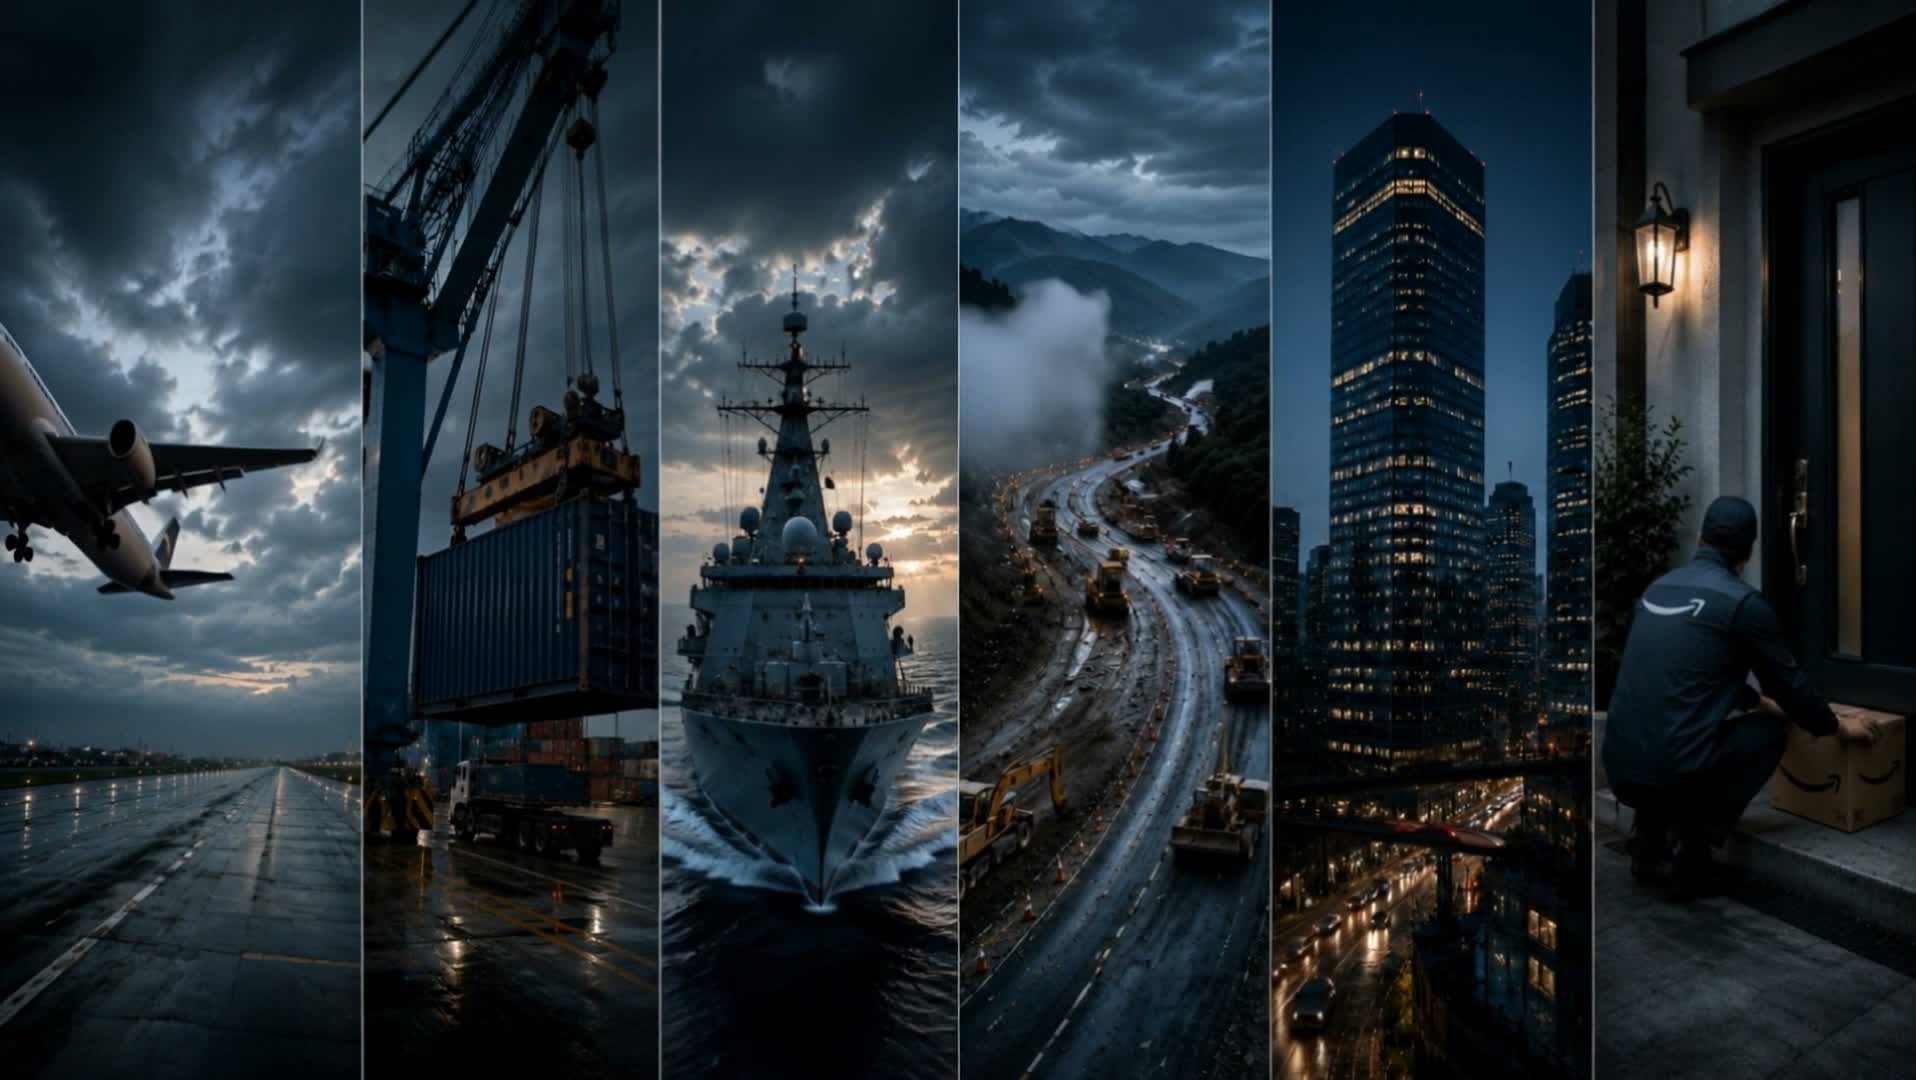
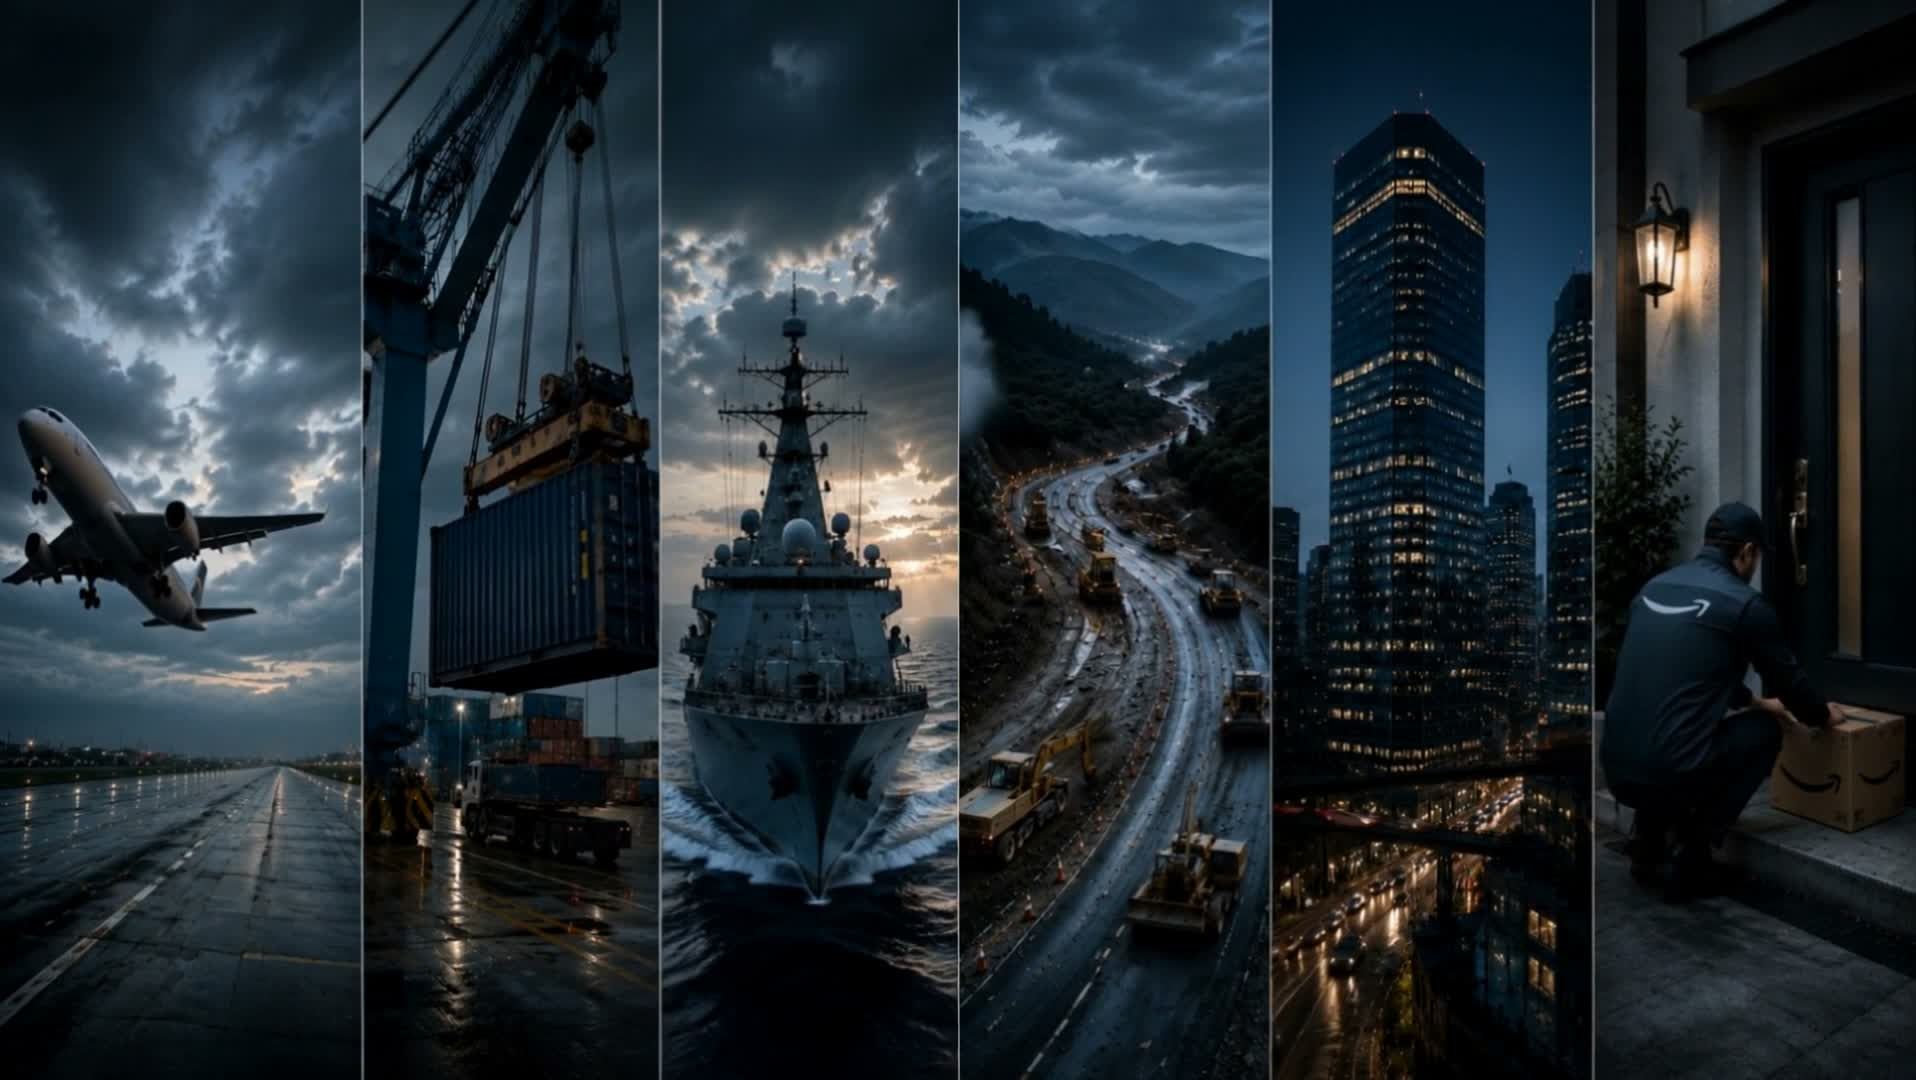
feat: swap slides 50 and 51

diff --git a/output/geoland-presentation/src/index.css b/output/geoland-presentation/src/index.css
@@ -159,7 +159,7 @@
     display: block !important;
   }
 
-  /* Clase para cada slide impreso y sus secciones */
+  /* Clase para cada slide impreso */
   .print-slide {
     page-break-after: always !important;
     break-after: page !important;
@@ -172,37 +172,9 @@
     background-color: #000000 !important;
   }
 
-  .print-slide section,
-  .print-slide .section-fullscreen {
-    height: 1080px !important;
-    min-height: 1080px !important;
-    display: flex !important;
-    align-items: center !important;
-    justify-content: center !important;
-  }
-  /* Desactivar animaciones y transiciones de transición */
+  /* Desactivar animaciones y filtros CSS durante la impresión */
   * {
     animation: none !important;
     transition: none !important;
   }
-}
-
-/* Forzar visibilidad instantánea de elementos animados (Framer Motion) en toda la app */
-h1, h2, h3, h4, h5, h6, p, span, img, svg, circle, rect, text {
-  opacity: 1 !important;
-  transform: none !important;
-  scale: 1 !important;
-}
-
-/* Mostrar todos los divs contenedores excepto overlays oscuros de contraste */
-div:not(.bg-overlay-dark):not(.media-overlay):not(.bg-overlay-dark\/45):not(.bg-black\/60):not(.bg-black\/45):not(.bg-black\/40) {
-  opacity: 1 !important;
-  transform: none !important;
-}
-
-/* Dibujar al instante los trazos de los diagramas SVG */
-svg path {
-  stroke-dasharray: none !important;
-  stroke-dashoffset: 0 !important;
-  opacity: 1 !important;
 }

diff --git a/output/geoland-presentation/src/components/Chapter.tsx b/output/geoland-presentation/src/components/Chapter.tsx
@@ -158,14 +158,21 @@ const Chapter: React.FC<ChapterProps> = ({ id, title, overline, text, background
       >
         {backgroundMedia && (
           isVideo ? (
-            <img 
-              src={`assets/${backgroundMedia.replace(/\.mp4$/i, '.jpg')}`} 
-              className="w-full h-full object-cover"
-              alt="background-poster"
-              onError={(e) => {
-                e.currentTarget.style.display = 'none';
-              }}
-            />
+            <>
+              <video 
+                src={backgroundMedia.startsWith('backtesting') || backgroundMedia.startsWith('escala') ? `assets/${backgroundMedia}` : `assets/${backgroundMedia}`}
+                autoPlay 
+                muted
+                loop 
+                playsInline 
+                className="w-full h-full object-cover print:hidden"
+              />
+              <img 
+                src={`assets/${backgroundMedia.replace(/\.mp4$/i, '.jpg')}`} 
+                className="w-full h-full object-cover hidden print:block"
+                alt="background-poster"
+              />
+            </>
           ) : (
             <img 
               src={`assets/${backgroundMedia}`} 

diff --git a/output/geoland-presentation/src/App.tsx b/output/geoland-presentation/src/App.tsx
@@ -130,7 +130,7 @@ function App() {
   }
 
   return (
-    <MotionConfig transition={{ duration: 0 }} reducedMotion="always">
+    <>
       {isPortrait && isMobile && (
         <div className="fixed inset-0 z-[100] bg-black/80 backdrop-blur-sm flex flex-col items-center justify-center p-8 text-center transition-opacity duration-500">
           <div className="mb-8 opacity-60">
@@ -194,10 +194,12 @@ function App() {
             className="absolute inset-0 z-10 bg-black"
           >
             <div className="absolute inset-0 z-0 overflow-hidden">
-              <img 
-                src="assets/portada2.jpg" 
+              <video 
+                src="assets/portada2.mp4" 
+                autoPlay 
+                muted
+                loop 
                 className="w-full h-full object-cover"
-                alt="portada"
               />
               <div className="absolute inset-0 bg-black/60 z-10"></div>
             </div>
@@ -228,7 +230,7 @@ function App() {
       </AnimatePresence>
         </div>
       </main>
-    </MotionConfig>
+    </>
   );
 }
 